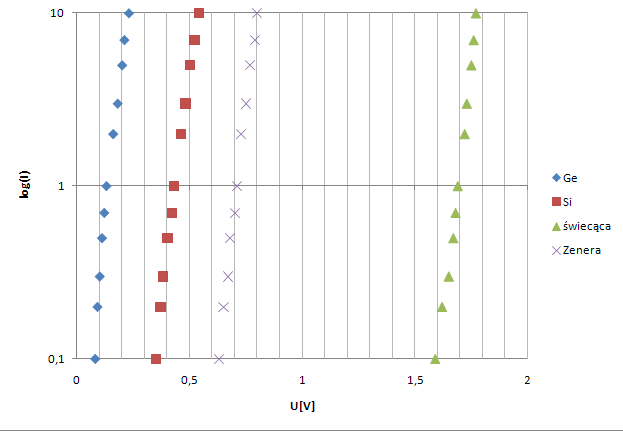
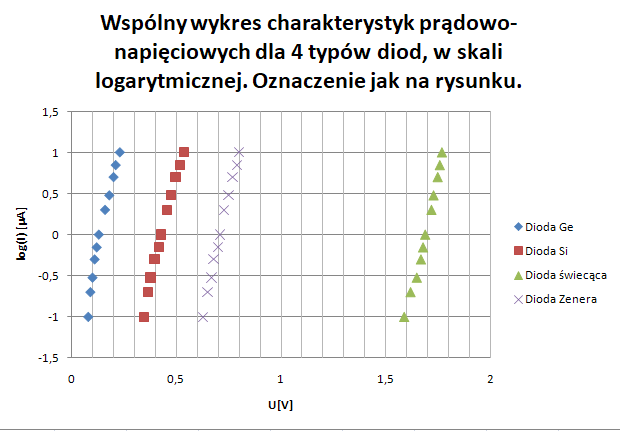
fix plots, add plots for kierunek zaporowy

diff --git a/123/tex/123.tex b/123/tex/123.tex
@@ -61,20 +61,34 @@ W kierunku zaporowym jednak, jedynie charakterystyka diody Zenera była wyznacza
 \end{itemize}
 \section{Opracowanie wyników pomiarów}
 \subsection{Kierunek przewodzenia}
+\subsubsection{Wspólny wykres charakterystyk prądowo- napięciowych  }
+
 \begin{figure}[H]
     \centering
     \includegraphics[height=0.27\paperheight]{graph1}
-    \caption{ Wspólny  wykres  charakterystyk  prądowo-
-napięciowych dla 4 typów diod,  $log(I) = f(U)$  dla  wszystkich  zmierzonych  diod. Oznaczenie jak na rysunku. }
-    \label{fig:graph3}
+    \label{fig:graph1}
 \end{figure}
+
+\subsubsection{Wykres charakterystyki napięciowej dla diody krzemowej. }
+
 
 \begin{figure}[H]
     \centering
     \includegraphics[height=0.27\paperheight]{graph2}
-    \caption{ Wykres  zlinearyzowany $ log(I) = f(U)$ dla diody krzemowej wraz z dopasowaną prostą. }
-    \label{fig:graph3}
+    \label{fig:graph2}
 \end{figure}
+
+\subsubsection{Współczynnik idealności dla diody krzemowej. }
+Do wyznaczenia współczynnika idealności skorzystamy z zależności prawdziwej dla małych $I$:
+$$ ln(I) = ln(I_s) + \frac{e}{mkT}U $$
+$$ gdzie \beta =  ln(I_s), \alpha =  \frac{e}{mkT}U $$
+Stąd:
+$$ m = \frac{1}{\alpha U_t} $$
+Przyjmujemy $ U_t = 26mV $.
+Korzystając z funkcji REGLINP otrzymujemy $ \alpha = 10,3096$.
+Zatem
+$$ m = \frac{1}{10,3096*26} =  2,52 $$
+
 
 \subsubsection{Przesunięcie charakterystyk diody Si i Ge}
 Średnia wartość różnicy $U_{Si} - U_{Ge}$ wyniosła: $U_{Si} - U_{Ge} = 0.3V$, taką samą różnicę zaobserwowano także w większości punktów pomiarowych (tzn. jest także medianą).\\
@@ -102,6 +116,31 @@ $$W_{gZenera} - W_{gSi} \approx 0.28eV$$
 $$W_{gZenera} \approx 1.39eV$$
 Co najbliższe jest wartości odpowiadającej fosforkowi indu ($1.35eV$) lub arsenkowi galu ($1.43eV$).
 \subsection{Kierunek zaporowy}
+\subsubsection{Wykresy charakterystyk napięciowych dla diody germanowej,krzemowej, Zenera i diody świecącej. }
+
+\begin{figure}[H]
+    \centering
+    \includegraphics[height=0.27\paperheight]{graph3}
+    \label{fig:graph3}
+\end{figure}
+
+\begin{figure}[H]
+    \centering
+    \includegraphics[height=0.27\paperheight]{graph4}
+    \label{fig:graph4}
+\end{figure}
+
+\begin{figure}[H]
+    \centering
+    \includegraphics[height=0.27\paperheight]{graph5}
+    \label{fig:graph5}
+\end{figure}
+
+\begin{figure}[H]
+    \centering
+    \includegraphics[height=0.27\paperheight]{graph6}
+    \label{fig:graph6}
+\end{figure}
 \subsubsection{Dioda Zenera}
 Napięcie stablizowane diody Zenera, odczytane dla warotści $I = 5mA$ wynosi $U = 15.79V$.
 Aby obliczyć współczynnik stabilizacji, wyliczamy odpowiednio rezystancję statyczną i dynamiczną. Do wyliczenia $\Delta U$ i $\Delta I$ użyjemy prądów z zakresu $2mA-8mA$:
